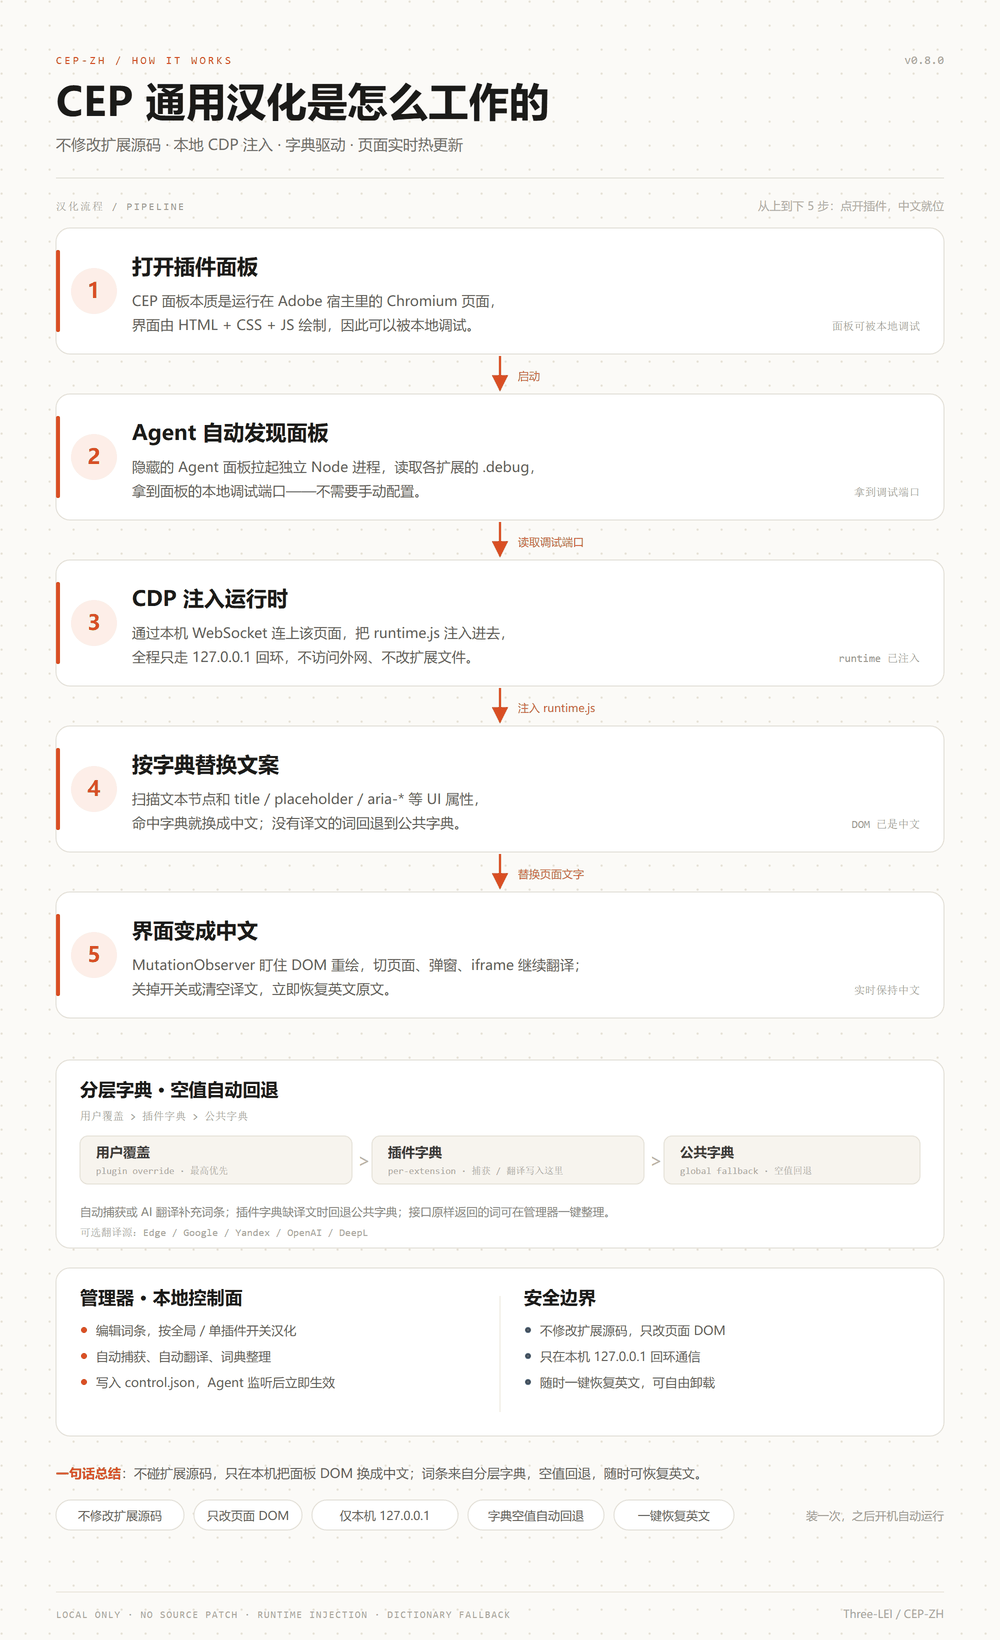
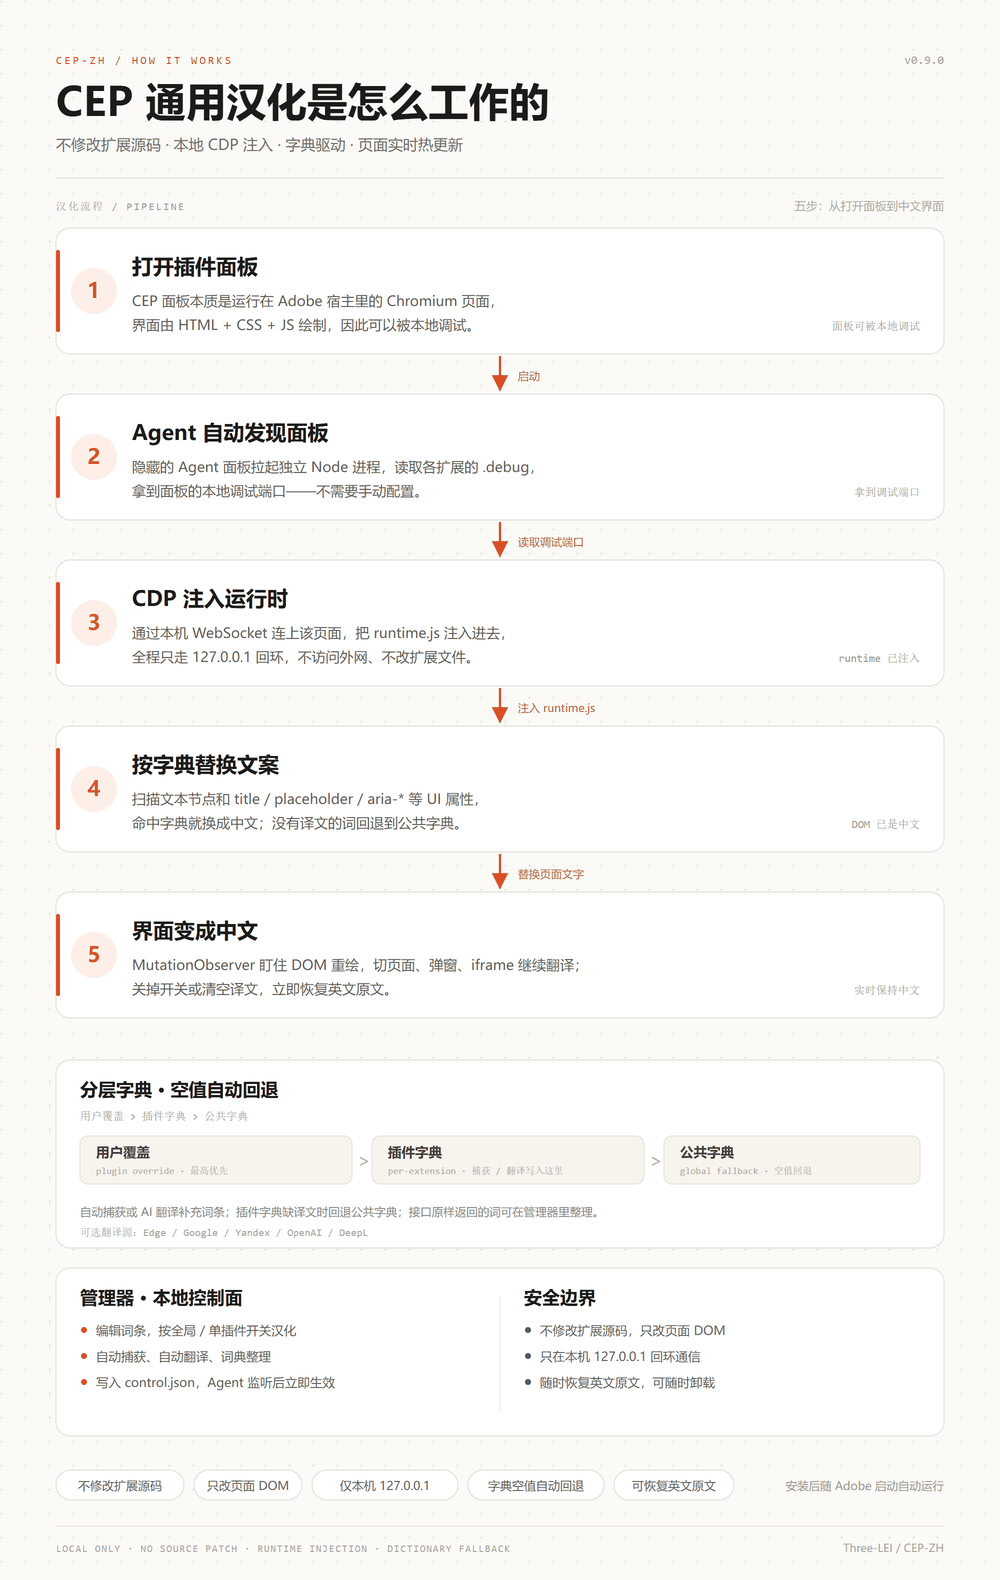
release: v0.9.0
- stamp installer, manager and elevation helper to 0.9.0
- refresh the architecture diagram (drop the summary line, tighten copy)
- keep atomic-write temp dirs and empty caches out of the runtime package

diff --git a/product/cep.zh.manager/index.html b/product/cep.zh.manager/index.html
@@ -25,7 +25,7 @@
       <div class="byline">
         <span class="byline-name">three-lei × deepseek</span>
         <span class="byline-sep"></span>
-        <span class="version">v0.8.0</span>
+        <span class="version">v0.9.0</span>
       </div>
     </div>
     <div class="top-actions">

diff --git a/installer/native/src/installer.cpp b/installer/native/src/installer.cpp
@@ -50,11 +50,11 @@ constexpr wchar_t kNodeVersion[] = L"22.14.0";
[1 lines of base64/hex data omitted]
 constexpr wchar_t kHosts[] = L"AEFT,PHXS,PPRO,ILST,IDSN,FLPR,AUDT,DRWV";
 const wchar_t* kRepoUrls[] = {
-    L"https://ghfast.top/https://github.com/Three-LEI/CEP-ZH/releases/download/v0.8.0/CEP-ZH-runtime-v0.8.0.zip",
-    L"https://gh-proxy.com/https://github.com/Three-LEI/CEP-ZH/releases/download/v0.8.0/CEP-ZH-runtime-v0.8.0.zip",
-    L"https://ghproxy.net/https://github.com/Three-LEI/CEP-ZH/releases/download/v0.8.0/CEP-ZH-runtime-v0.8.0.zip",
-    L"https://ghproxy.imciel.com/https://github.com/Three-LEI/CEP-ZH/releases/download/v0.8.0/CEP-ZH-runtime-v0.8.0.zip",
-    L"https://github.com/Three-LEI/CEP-ZH/releases/download/v0.8.0/CEP-ZH-runtime-v0.8.0.zip",
+    L"https://ghfast.top/https://github.com/Three-LEI/CEP-ZH/releases/download/v0.9.0/CEP-ZH-runtime-v0.9.0.zip",
+    L"https://gh-proxy.com/https://github.com/Three-LEI/CEP-ZH/releases/download/v0.9.0/CEP-ZH-runtime-v0.9.0.zip",
+    L"https://ghproxy.net/https://github.com/Three-LEI/CEP-ZH/releases/download/v0.9.0/CEP-ZH-runtime-v0.9.0.zip",
+    L"https://ghproxy.imciel.com/https://github.com/Three-LEI/CEP-ZH/releases/download/v0.9.0/CEP-ZH-runtime-v0.9.0.zip",
+    L"https://github.com/Three-LEI/CEP-ZH/releases/download/v0.9.0/CEP-ZH-runtime-v0.9.0.zip",
 };
 const wchar_t* kRepoLabels[] = {
     L"ghfast.top", L"gh-proxy.com", L"ghproxy.net", L"ghproxy.imciel.com", L"GitHub 直连",

diff --git a/installer/native/src/main.cpp b/installer/native/src/main.cpp
@@ -24,7 +24,7 @@ using Microsoft::WRL::ComPtr;
 namespace
 {
 constexpr wchar_t kWindowClass[] = L"CEP.ZH.Installer.Window";
-constexpr wchar_t kWindowTitle[] = L"CEP 汉化管理器 · 安装器 v0.8.0";
+constexpr wchar_t kWindowTitle[] = L"CEP 汉化管理器 · 安装器 v0.9.0";
 constexpr int kWidth = 760;
 constexpr int kHeight = 570;
 constexpr UINT kMsgUpdate = WM_APP + 1;

diff --git a/installer/native/src/installer.h b/installer/native/src/installer.h
@@ -4,7 +4,7 @@
 #include <functional>
 #include <string>
 
-constexpr wchar_t kCepZhVersion[] = L"0.8.0";
+constexpr wchar_t kCepZhVersion[] = L"0.9.0";
 
 struct UiModel
 {

diff --git a/README.md b/README.md
@@ -6,7 +6,7 @@ Adobe CEP 面板通用汉化方案：**不修改扩展源码**，通过本地调
   <img src="assets/architecture.png" alt="CEP 通用汉化流程图：打开面板 → Agent 发现 .debug 端口 → CDP 注入 runtime.js → 按分层字典替换文案 → 界面实时变中文" width="100%">
 </p>
 
-<p align="center"><sub>从上到下五步就是一次汉化的全过程：点开插件 → Agent 自动接入 → 注入运行时 → 字典替换 → 界面变中文。<br>CDP 指 Chrome DevTools Protocol，连接只走本机 127.0.0.1；词条来自“用户覆盖 > 插件字典 > 公共字典”，空值自动回退。</sub></p>
+<p align="center"><sub>一次汉化的完整流程：打开面板 → Agent 接入 → 注入运行时 → 字典替换 → 界面变中文。<br>CDP 指 Chrome DevTools Protocol，连接只走本机 127.0.0.1；词条来自“用户覆盖 > 插件字典 > 公共字典”，空值自动回退。</sub></p>
 
 ## 原理
 
